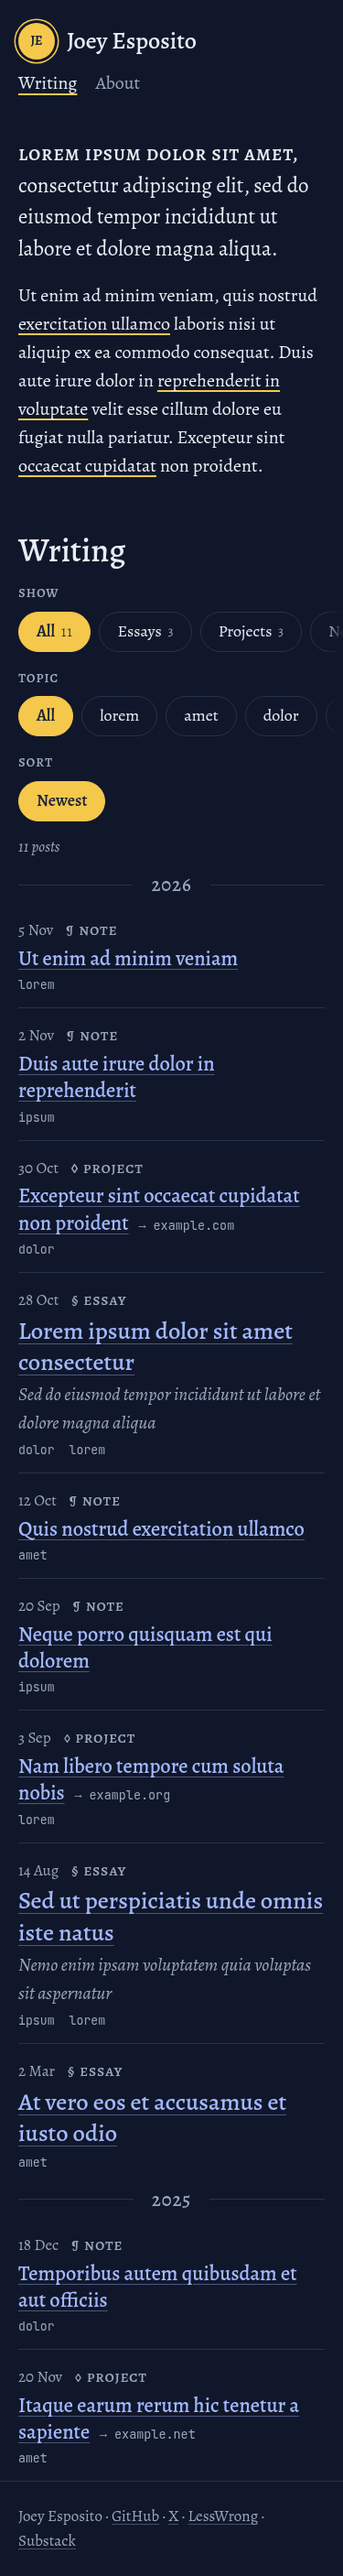
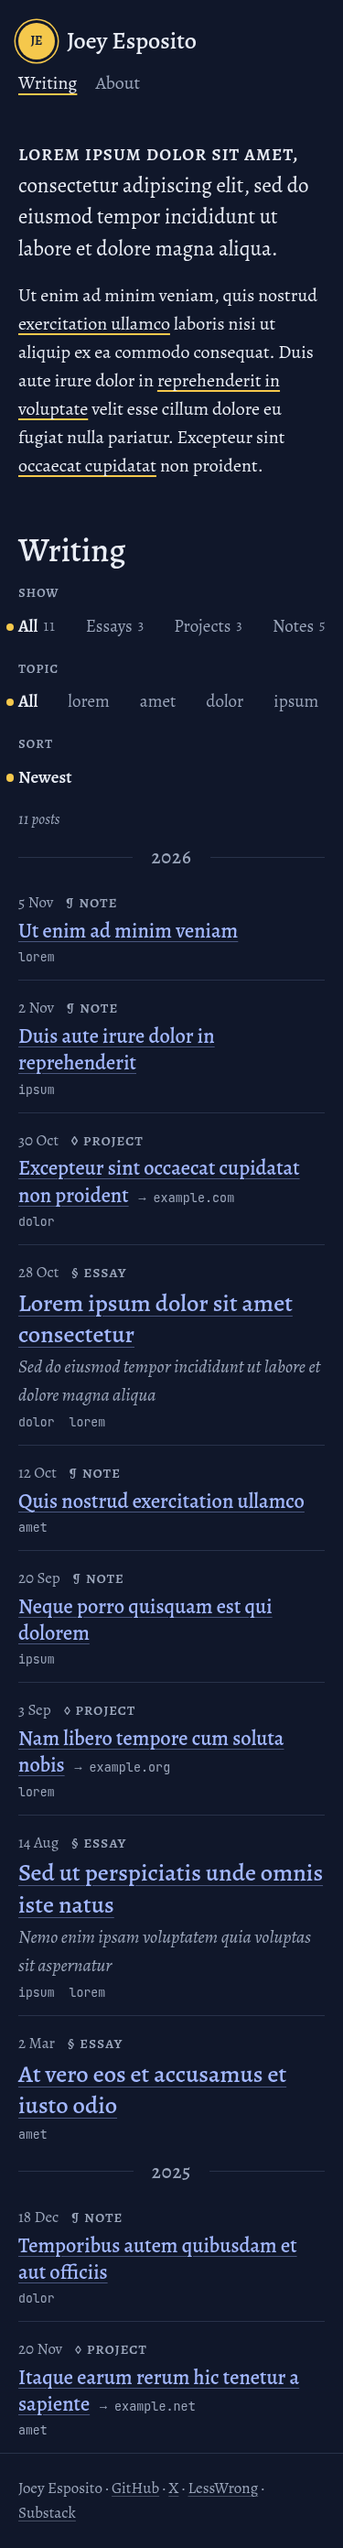
Show narrow-screen list controls as text with the chosen dot, not pills

diff --git a/src/styles/global.css b/src/styles/global.css
@@ -165,19 +165,21 @@ body:has(.writing) .site-footer { margin-top: 0; }
 .f-empty { margin: 1.5rem 0; color: var(--muted); font-style: italic; }
 .f-empty button { font: inherit; color: var(--accent); background: none; border: 0; padding: 0; text-decoration: underline; cursor: pointer; }
 
-/* Narrow screens: each group is a row of pills running the full width of the screen (out
-   through the page gutters), scrolling sideways when it overflows, with fades at the edges.
-   Pills are 44px tall, the touch-target minimum, and the chosen one fills with sunflower. */
+/* Narrow screens: each group is a row running the full width of the screen (out through the
+   page gutters), scrolling sideways when it overflows under a fade at the right edge. Each
+   option is plain text with the sunflower dot when chosen, as in the wide margin, inside an
+   invisible 44px touch target whose left padding holds the dot, so the text lines up with
+   the page while the first dot hangs in the gutter. */
 @media not all and (min-width: 80rem) {
-  .filters { display: grid; gap: 0.75rem; margin: 0.2rem 0 0; font-size: 0.9rem; }
-  .filters legend { margin-bottom: 0.35rem; font-size: 0.85rem; }
-  .filters .options { display: flex; gap: 0.45rem; overflow-x: auto; scrollbar-width: none; margin-inline: -1rem; padding-inline: 1rem; mask-image: linear-gradient(to right, transparent, #000 1rem, #000 calc(100% - 1rem), transparent); }
+  .filters { display: grid; gap: 0.5rem; margin: 0.2rem 0 0; font-size: 0.95rem; }
+  .filters legend { margin-bottom: 0.1rem; font-size: 0.85rem; }
+  .filters .options { display: flex; gap: 0.35rem; overflow-x: auto; scrollbar-width: none; margin-inline: -1rem; padding: 0 1rem 0 0.1rem; mask-image: linear-gradient(to right, #000 calc(100% - 1rem), transparent); }
   .filters .options::-webkit-scrollbar { display: none; }
-  .filters label > span { display: inline-flex; align-items: center; gap: 0.35em; min-height: 2.2rem; padding: 0 0.95rem; white-space: nowrap; color: var(--fg); border: 1px solid var(--rule); border-radius: 999px; transition: background-color 0.15s, border-color 0.15s, transform 0.1s; }
-  .filters label:active > span { transform: scale(0.95); }
-  .filters label:has(input:checked) > span { color: var(--on-sun); font-weight: 600; background: var(--sun); border-color: var(--sun); }
-  .filters label:has(input:checked) .n { color: var(--on-sun); }
-  .filters label:has(input:focus-visible) > span { outline: 2px solid var(--accent); outline-offset: 2px; }
+  .filters label > span { position: relative; display: inline-flex; align-items: center; gap: 0.3em; min-height: 2.2rem; padding: 0 0.4rem 0 0.9rem; white-space: nowrap; color: var(--muted); transition: color 0.15s, transform 0.1s; }
+  .filters label:active > span { transform: scale(0.94); }
+  .filters label:has(input:checked) > span { color: var(--fg); font-weight: 600; }
+  .filters label:has(input:checked) > span::before { content: ''; position: absolute; left: 0.25rem; top: 50%; width: 0.42rem; height: 0.42rem; margin-top: -0.21rem; border-radius: 50%; background: var(--sun); }
+  .filters label:has(input:focus-visible) > span { outline: 2px solid var(--accent); outline-offset: -2px; border-radius: 4px; }
 }
 
 /* Wide screens: the controls are a quiet list in the right margin, the choice marked by a dot. */

diff --git a/DESIGN.md b/DESIGN.md
@@ -61,10 +61,12 @@ Meta 0.85–0.92rem. Inline code 0.8em; code blocks 0.72rem (14.4px).
 
 - Below 80rem (1280px): one column, `--measure` wide plus 1rem gutters. The header is a top
   bar: avatar and name, then the nav. The list's controls sit under the "Writing" heading
-  with no rules: each group is a small-caps label over a row of 44px pills running the full
-  width of the screen. The chosen pill fills with sunflower and pills press in slightly when
-  tapped. A row too long for the screen (usually Topic) scrolls sideways under edge fades,
-  and a choice made by link is scrolled into view.
+  with no rules: each group is a small-caps label over a row running the full width of the
+  screen. Options are plain text with the sunflower dot beside the chosen one, as in the wide
+  margin, each in an invisible 44px touch target that presses in slightly when tapped. A row
+  too long for the screen (usually Topic) scrolls sideways under a fade at its right edge,
+  and a choice made by link is scrolled into view. (Outlined pills were tried; Joey
+  preferred the dots.)
 - From 80rem: the body is a five-column grid (`1fr | rail | measure | rail | 1fr`). The
   header sits in the left rail, right-aligned and sticky: a 4.25rem avatar, the name, the
   nav. Pages that need it put a sticky panel in the right rail (`.with-rail`
